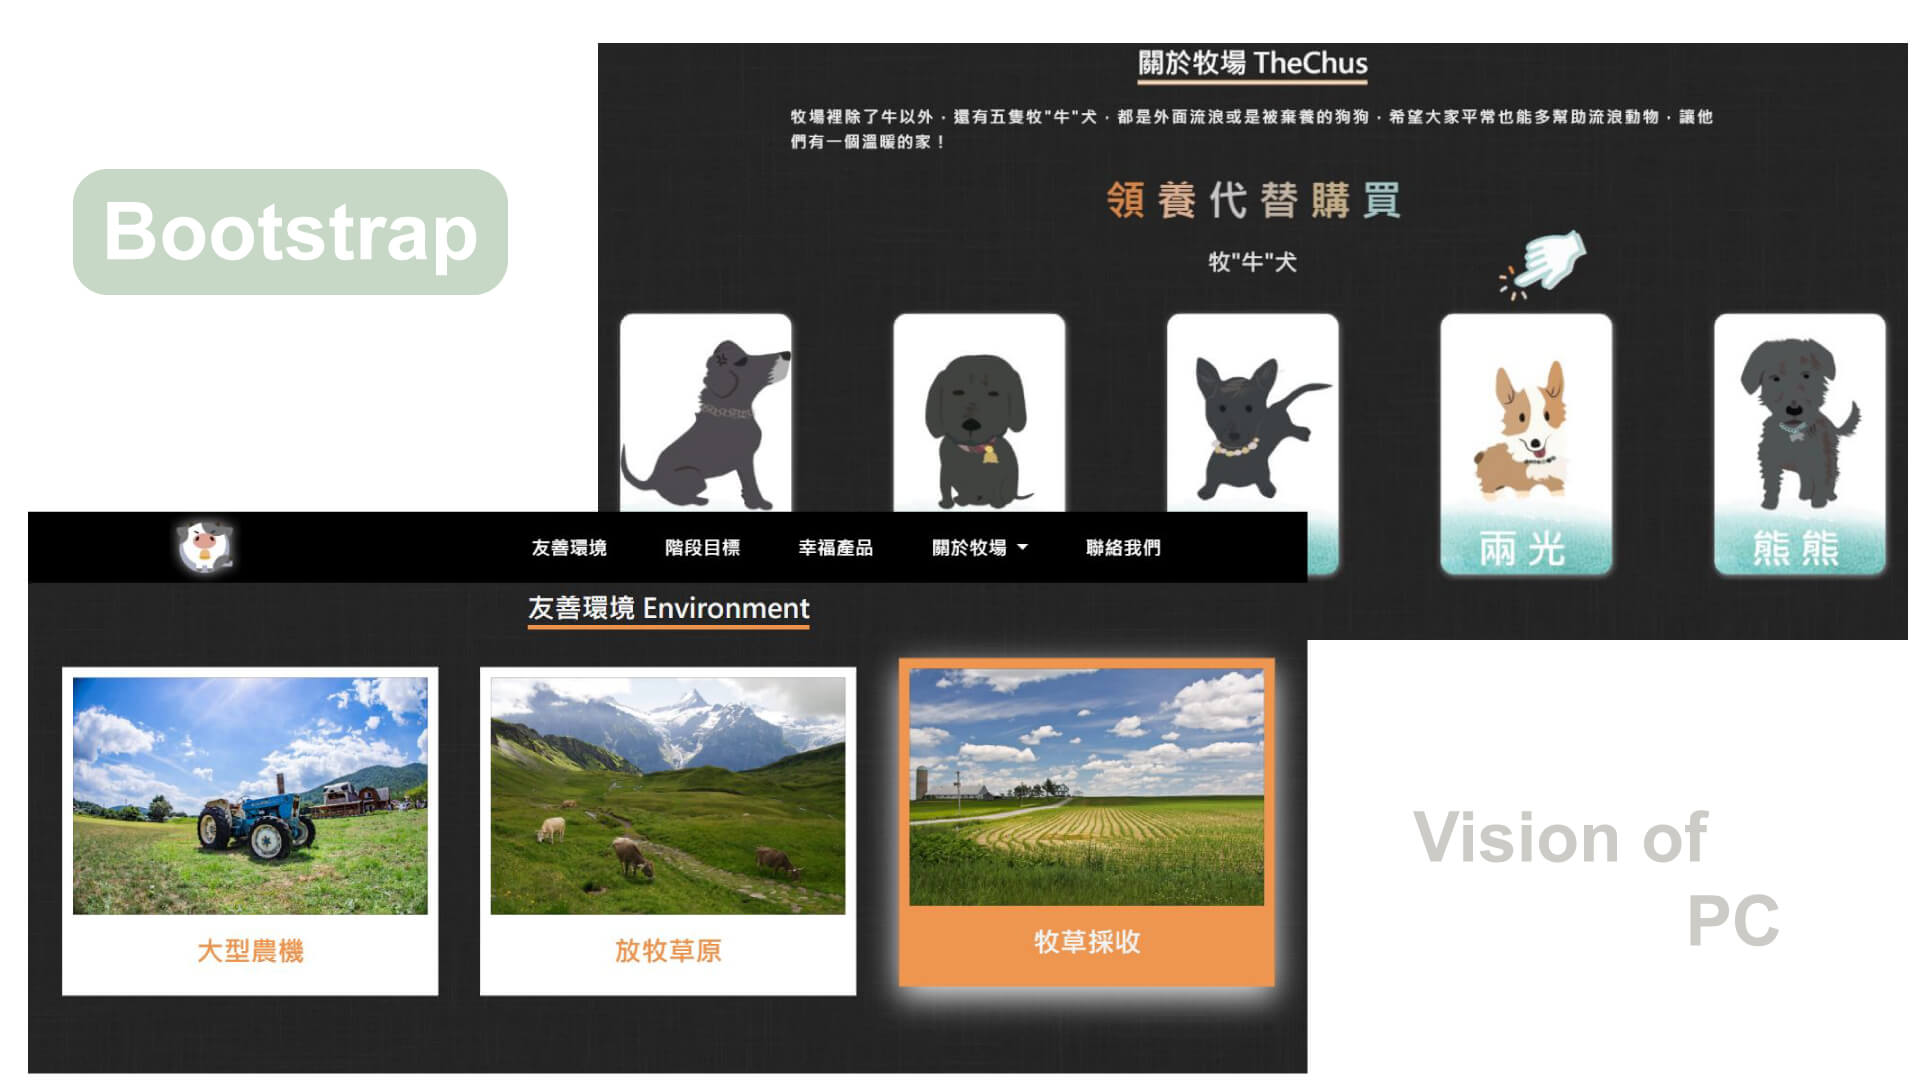
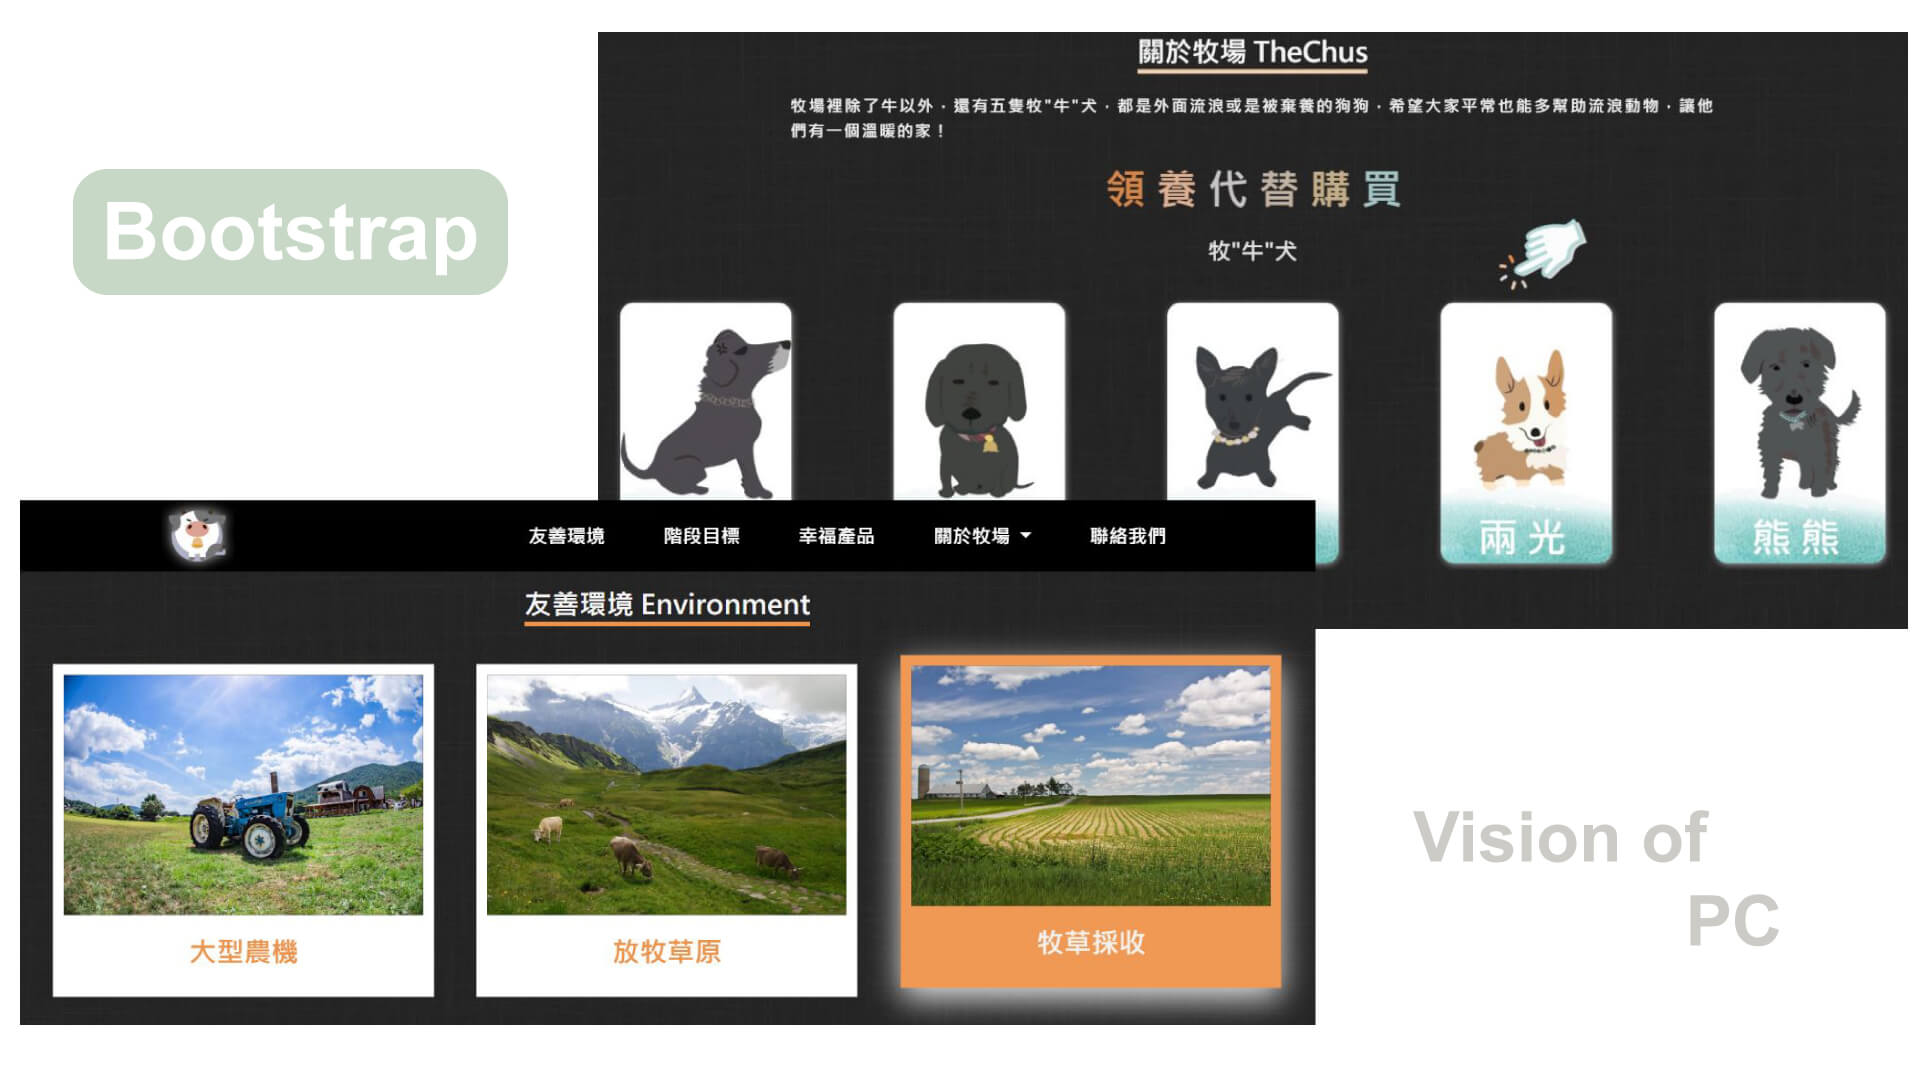
update front-end's pic

diff --git a/portfolio/index.html b/portfolio/index.html
@@ -89,33 +89,18 @@
   </ul>
 
 
-  <section id="section1" class="scrollspy">
-    <h3 class="section_name center">Front-end</h3>
-    <div class="container">
-
-    </div>
-
-
-  </section>
-
-
   <section id="front-end" class="scrollspy">
-
+    <h3 class="section_name center">Front-end</h3>
     <h4 class="white-text center">響應式網頁設計</h4>
-    <div class="MB-100">
+    <div class="MB-150">
       <div class="row center">
         <div class="col s12">
-          <img alt="RWD's pic 響應式網頁設計圖片" src="img/front-end/RWD.jpg" class="responsive-img">
+          <img alt="RWD's pic 響應式網頁mockup圖片" src="img/front-end/RWD.jpg" class="responsive-img">
         </div>
       </div>
     </div>
 
-    <!-- <div class="container thirdcolor">
-      <div class="grey-text text-darken-2">Bootstrap框架+套件應用</div>
-    </div> -->
-    <!-- 這個刪掉，css那段也要刪！ -->
-
-    <div class="z-depth-3 pc S-ROW">
+    <div class="MB-100">
       <div class="row">
         <div class="col s12">
           <img alt="rwd-pc-vision-1" src="img/front-end/Bootstrap-pc-vision.JPG" class="responsive-img">
@@ -123,7 +108,7 @@
       </div>
     </div>
 
-    <div class="z-depth-3 other S-ROW">
+    <div class="MB-100">
       <div class="row">
         <div class="col s12">
           <img alt="rwd-tablet-vision-1" src="img/front-end/Bootstrap-tablet-vision.JPG" class="responsive-img">
@@ -131,7 +116,7 @@
       </div>
     </div>
 
-    <div class="z-depth-3 other S-ROW">
+    <div class="MB-100">
       <div class="row">
         <div class="col s12">
           <img alt="rwd-phone-vision-1" src="img/front-end/Bootstrap-phone-vision.JPG" class="responsive-img">
@@ -139,40 +124,7 @@
       </div>
     </div>
 
-    <!-- <div class="z-depth-3 pc S-ROW">
-      <div class="row">
-        <div class="col s12 hide-on-med-and-down">
-          <img alt="rwd-pc-vision-1" src="img/front-end/rwd-pc-vision-1.JPG" class="responsive-img">
-        </div>
-        <div class="col s12 hide-on-large-only">
-          <img alt="rwd-pc-vision-min1" src="img/front-end/rwd-pc-vision-min1.JPG" class="responsive-img">
-        </div>
-      </div>
-    </div>
-
-    <div class="z-depth-3 other S-ROW">
-      <div class="row">
-        <div class="col s12 hide-on-med-and-down">
-          <img alt="rwd-tablet-vision-1" src="img/front-end/rwd-tablet-vision-1.JPG" class="responsive-img">
-        </div>
-        <div class="col s12 hide-on-large-only">
-          <img alt="rwd-tablet-vision-min1" src="img/front-end/rwd-tablet-vision-min1.JPG" class="responsive-img">
-        </div>
-      </div>
-    </div>
-
-    <div class="z-depth-3 other S-ROW">
-      <div class="row">
-        <div class="col s12 hide-on-med-and-down">
-          <img alt="rwd-phone-vision-1" src="img/front-end/rwd-phone-vision-1.JPG" class="responsive-img">
-        </div>
-        <div class="col s12 hide-on-large-only">
-          <img alt="rwd-phone-vision-min1" src="img/front-end/rwd-phone-vision-min1.JPG" class="responsive-img">
-        </div>
-      </div>
-    </div> -->
-
-    <div class="z-depth-3 other S-ROW">
+    <div class="MB-100">
       <div class="row">
         <div class="col s12">
           <img alt="package's pic" src="img/front-end/package.jpg" class="responsive-img">
@@ -193,8 +145,8 @@
         <div class="col s12">
           <img alt="rwd-tablet-vision-2" src="img/front-end/Materialize-tablet-vision.JPG" class="responsive-img">
         </div>
-        </div>
       </div>
+    </div>
     </div>
 
     <div class="MB-100">
@@ -202,44 +154,11 @@
         <div class="col s12">
           <img alt="rwd-phone-vision-2" src="img/front-end/Materialize-phone-vision.JPG" class="responsive-img">
         </div>
-        </div>
       </div>
     </div>
-
-    <!-- <div class="z-depth-3 pc S-ROW">
-      <div class="row">
-        <div class="col s12 hide-on-med-and-down">
-          <img alt="rwd-pc-vision-2" src="img/front-end/rwd-pc-vision-2.JPG" class="responsive-img">
-        </div>
-        <div class="col s12 hide-on-large-only">
-          <img alt="rwd-pc-vision-min2" src="img/front-end/rwd-pc-vision-min2.JPG" class="responsive-img">
-        </div>
-      </div>
     </div>
 
-    <div class="z-depth-3 other S-ROW">
-      <div class="row">
-        <div class="col s12 hide-on-med-and-down">
-          <img alt="rwd-tablet-vision-2" src="img/front-end/rwd-tablet-vision-2.JPG" class="responsive-img">
-        </div>
-        <div class="col s12 hide-on-large-only">
-          <img alt="rwd-phone-vision-min2" src="img/front-end/rwd-phone-vision-min2.JPG" class="responsive-img">
-        </div>
-      </div>
-    </div>
-
-    <div class="z-depth-3 other S-ROW">
-      <div class="row">
-        <div class="col s12 hide-on-med-and-down">
-          <img alt="rwd-phone-vision-2" src="img/front-end/rwd-phone-vision-2.JPG" class="responsive-img">
-        </div>
-        <div class="col s12 hide-on-large-only">
-          <img alt="rwd-phone-vision-min2" src="img/front-end/rwd-phone-vision-min2.JPG" class="responsive-img">
-        </div>
-      </div>
-    </div> -->
-
-    <div class="MB-100">
+    <div class="MB-100 seo-mb-100">
       <div class="row">
         <div class="col s12">
           <img alt="SEO Image Optimization" src="img/front-end/SEO.JPG" class="responsive-img">

diff --git a/portfolio/css/index.scss b/portfolio/css/index.scss
@@ -293,64 +293,25 @@ ul.sidenav .subheader {
     padding-bottom: 20px;
 }
 
-.container.thirdcolor {
-    font-size: 2.28rem;
-    line-height: 110%;
-
-    @media (max-width:576px) {
-        font-size: 1.78rem;
-    }
-}
-
-#front-end .z-depth-3 {
-    margin-bottom: 150px;
-
-    @media (max-width:414px) {
-        margin-bottom: 100px;
-    }
-
-    &.pc {
-        margin: 20px auto 150px auto;
-        padding: 20px 0 10px 0;
-
+#front-end {
+    .MB-150{
+        margin-bottom: 150px;
         @media (max-width:576px) {
-            margin: 20px auto 100px auto;
-            padding: 20px 0 1px 0;
+            margin-bottom: 100px;
+        }
+        @media (max-width:414px) {
+            margin-bottom: 80px;
         }
     }
-
-    &.other {
-        margin: 0 auto 150px auto;
-
+    .MB-100 {
         @media (max-width:576px) {
-            margin: 0 auto 100px auto;
+            margin-bottom: 50px;
         }
     }
-
-    &.S-ROW {
-        max-width: 97%;
+    .seo-mb-100{
+        margin-bottom: 65px;
     }
 }
-
-// #front-end .col img.responsive-img {
-//     margin: 0 auto;
-//     max-height: 100px;
-//     padding-bottom: 10px;
-//     vertical-align: middle;
-//     display: table-cell;
-// }
-
-
-// 改成用img，ok下面這段可刪
-#front-end .pic {
-    width: 100%;
-    height: 200px;
-    background-image: url(../img/front-end/擷取.JPG);
-    background-position: center;
-    background-size: contain;
-    background-repeat: no-repeat;
-}
-
 
 //////ajax////////
 #ajax {
@@ -545,12 +506,14 @@ section.parallax-container {
 }
 
 //////MY-house:GanttChart////////
-#GanttChart{
+#GanttChart {
     margin-top: 50px;
-    .container{
+
+    .container {
         width: 100%;
     }
 }
+
 #myhouse {
     h4 {
         background-color: #cccbc6;
@@ -570,9 +533,11 @@ section.parallax-container {
 .Decorate .card .card-action {
     border-top: unset;
     padding: 16px 0px;
+
     @media (max-width:1024px) {
         padding: 10px 0px;
     }
+
     @media (max-width:600px) {
         padding: 7px 0px;
     }
@@ -585,16 +550,20 @@ section.parallax-container {
 
 .Decorate .row:first-of-type {
     margin-top: 30px;
+
     @media (max-width:1000px) {
         margin-top: 20px;
     }
+
     @media (max-width:600px) {
         margin-top: 10px;
     }
 }
+
 .Decorate .card-image {
     position: relative;
 }
+
 .Decorate .card-image .card-title {
     top: 50%;
     left: 50%;
@@ -609,16 +578,18 @@ section.parallax-container {
     opacity: 0;
     cursor: pointer;
 }
+
 .Decorate .card-action p {
     margin: 0;
     cursor: pointer;
 }
 
-#design{
-    #design1{
+#design {
+    #design1 {
         margin-top: 20px;
     }
-    #design2{
+
+    #design2 {
         margin-top: 50px;
         margin-bottom: 100px;
     }
@@ -644,7 +615,8 @@ section.parallax-container {
 
 #footer-links {
     margin: 1.5rem 0 0 0;
-    img{
+
+    img {
         height: 26px;
     }
 }

diff --git a/portfolio/css/index.css b/portfolio/css/index.css
@@ -365,60 +365,30 @@ ul.sidenav .subheader {
   padding-bottom: 20px;
 }
 
-.container.thirdcolor {
-  font-size: 2.28rem;
-  line-height: 110%;
-}
-
-@media (max-width: 576px) {
-  .container.thirdcolor {
-    font-size: 1.78rem;
-  }
-}
-
-#front-end .z-depth-3 {
+#front-end .MB-150 {
   margin-bottom: 150px;
 }
 
-@media (max-width: 414px) {
-  #front-end .z-depth-3 {
+@media (max-width: 576px) {
+  #front-end .MB-150 {
     margin-bottom: 100px;
   }
 }
 
-#front-end .z-depth-3.pc {
-  margin: 20px auto 150px auto;
-  padding: 20px 0 10px 0;
-}
-
-@media (max-width: 576px) {
-  #front-end .z-depth-3.pc {
-    margin: 20px auto 100px auto;
-    padding: 20px 0 1px 0;
+@media (max-width: 414px) {
+  #front-end .MB-150 {
+    margin-bottom: 80px;
   }
 }
 
-#front-end .z-depth-3.other {
-  margin: 0 auto 150px auto;
-}
-
 @media (max-width: 576px) {
-  #front-end .z-depth-3.other {
-    margin: 0 auto 100px auto;
+  #front-end .MB-100 {
+    margin-bottom: 50px;
   }
 }
 
-#front-end .z-depth-3.S-ROW {
-  max-width: 97%;
-}
-
-#front-end .pic {
-  width: 100%;
-  height: 200px;
-  background-image: url(../img/front-end/擷取.JPG);
-  background-position: center;
-  background-size: contain;
-  background-repeat: no-repeat;
+#front-end .seo-mb-100 {
+  margin-bottom: 65px;
 }
 
 #ajax .parallax-container {
